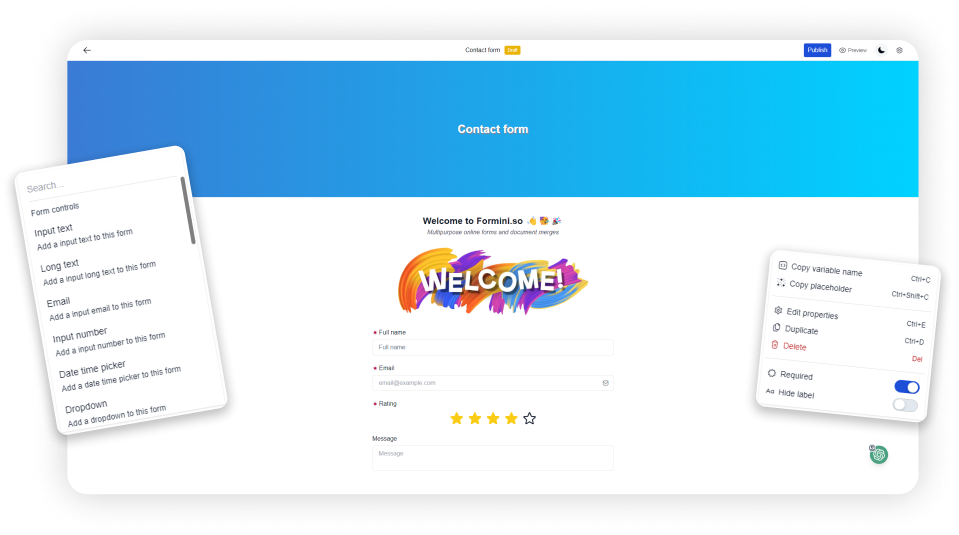
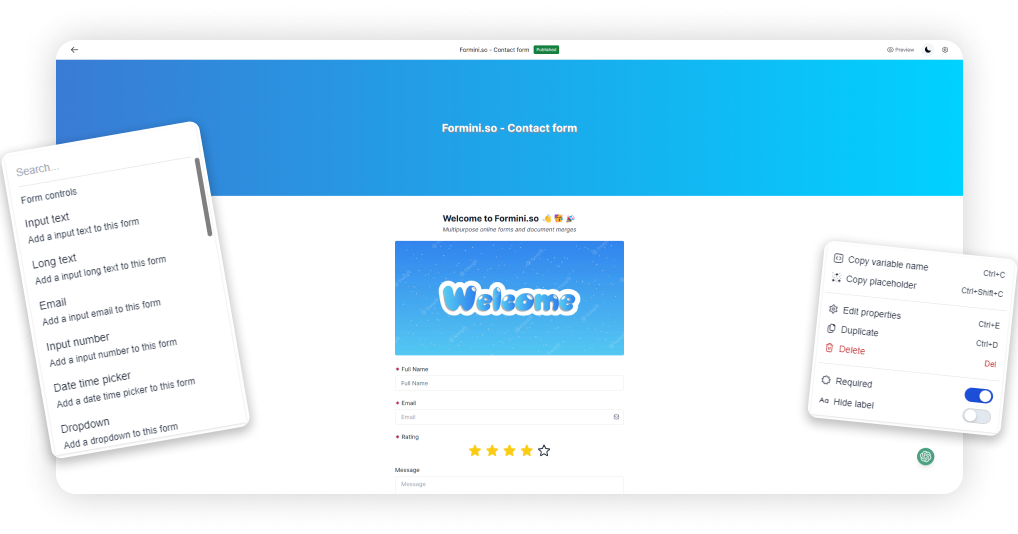
Update welcome image

diff --git a/src/components/features/index.tsx b/src/components/features/index.tsx
@@ -1,11 +1,10 @@
-import { StarIcon } from "@heroicons/react/24/solid";
 import Image from "next/image";
-import { FC } from "react"
-import FormBuilder from "./form-builder";
+import { FC } from "react";
 import AIFormBuilder from "./ai-form-builder";
-import DocumentMerges from "./document-merges";
-import RepeatableGroup from "./repeatable-group";
 import DataAnalysis from "./data-analysis";
+import DocumentMerges from "./document-merges";
+import FormBuilder from "./form-builder";
+import RepeatableGroup from "./repeatable-group";
 
 type Props = {
 
@@ -13,7 +12,7 @@ type Props = {
 
 const Features: FC<Props> = ({ }) => {
     return (
-        <section className="w-full mt-12">
+        <section className="w-full mt-8">
             <div className="w-full bg-gradient-to-b from-white to-slate-100">
                 <div className="w-full flex items-center justify-center overflow-hidden">
                     <Image
@@ -22,7 +21,7 @@ const Features: FC<Props> = ({ }) => {
                         width={855}
                         height={451}
                         quality={100}
-                        className="-mb-16"
+                        className="-mb-14"
                     />
                 </div>
             </div>

diff --git a/src/components/banner.tsx b/src/components/banner.tsx
@@ -1,5 +1,5 @@
 import Link from "next/link";
-import { FC } from "react"
+import { FC } from "react";
 
 type Props = {
 
